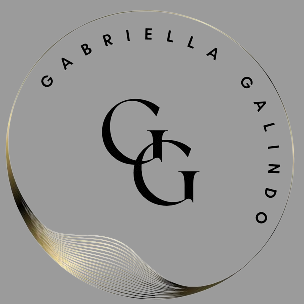
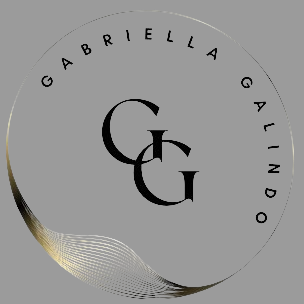
updates on lgo3

diff --git a/index.html b/index.html
@@ -66,8 +66,8 @@
   </nav>
 
   <!-- Header -->
-  <header class="masthead d-flex">
-    <div class="container text-center my-auto" style="background-image: url(./img/3.png);">
+  <header class="masthead d-flex" >
+    <div class="container text-center my-auto">
       <!-- <img src="./img/Sequence 01.gif" style="max-width: 100px"> -->
         <br/>
       <h1 class="mb-1">Gabriella Galindo</h1>
@@ -84,7 +84,7 @@
     <div class="container text-center">
       <div class="row">
         <div class="col-lg-10 mx-auto">
-          <h2>Gabriella Galindo</h2>
+          <img src="./img/3.png" alt="logo" style="max-width: 320px;">
           <p class="lead mb-5"> 
             <p> Gabriella “Gabby” Galindo is a multi-faceted hairstylist servicing all of the greater Los Angeles area. With over a decade of experience in the entertainment industry, Gabby has lent her talents to the editorial, film, television, advertising, and personal clientele markets. Securing her California Cosmetology License at the age of 18, Gabby has held every position in a salon or on a set. Only further attributing to her well rounded and team first leadership style.
               <br/>
